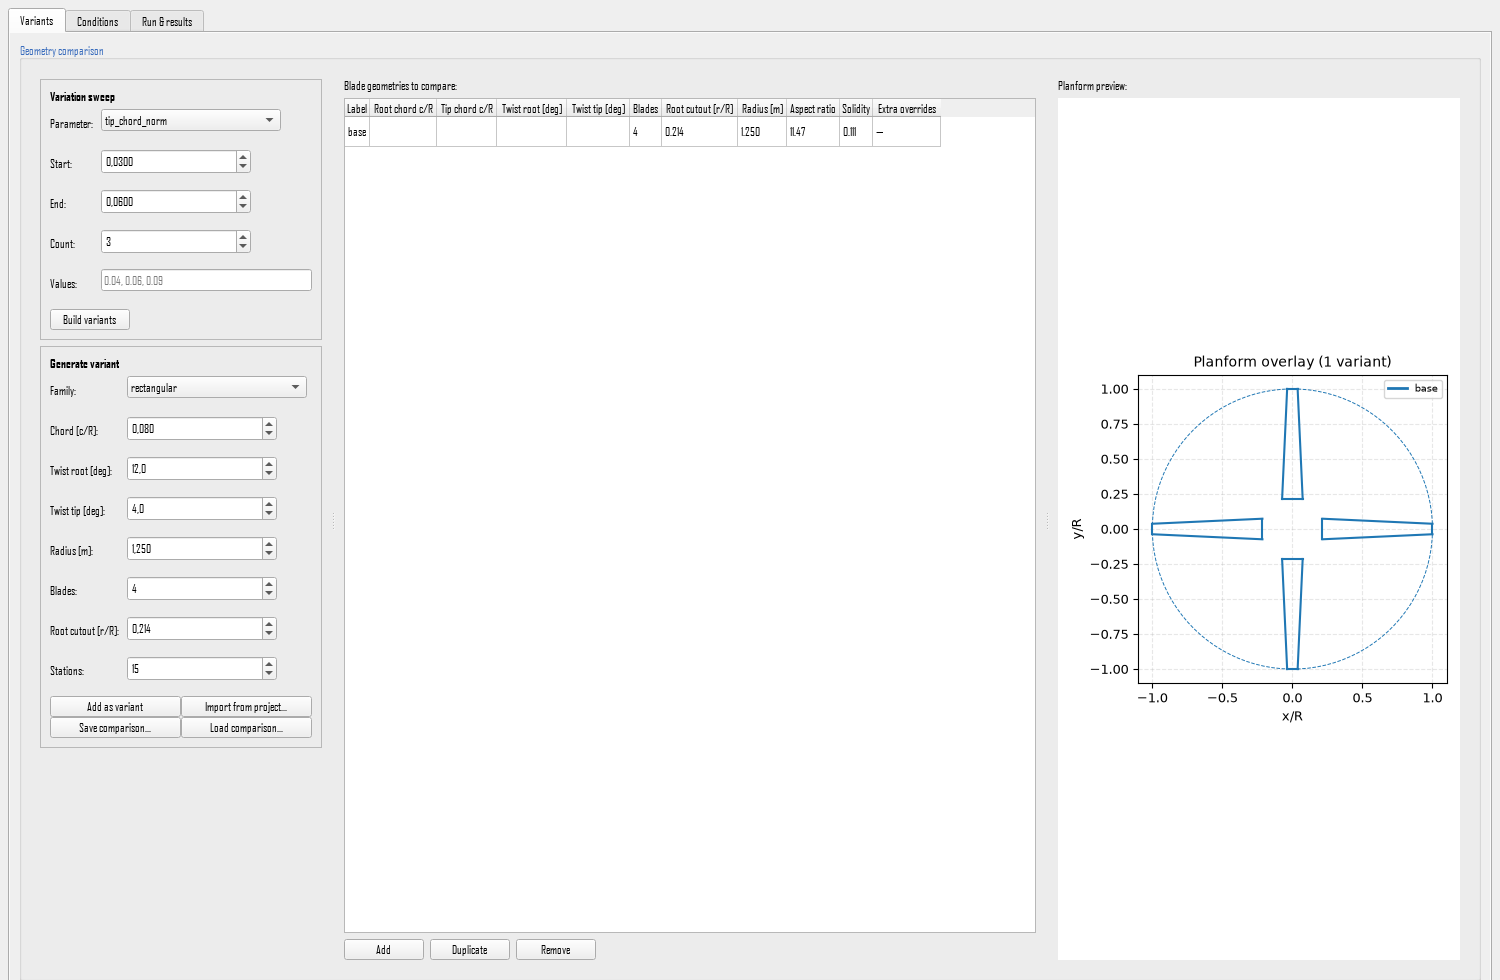
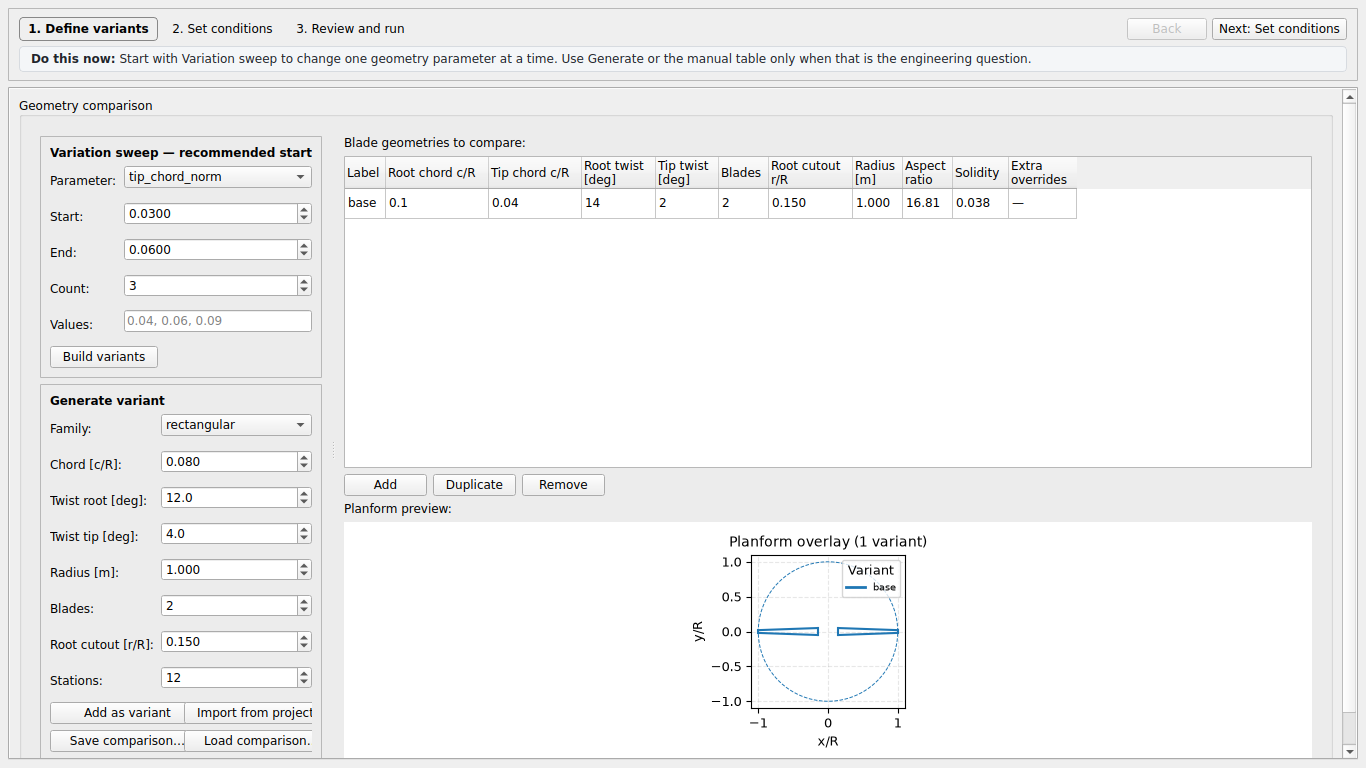
[tools-ux-refactor] Synchronize guided Tools documentation

diff --git a/docs/documentation.html b/docs/documentation.html
@@ -8531,7 +8531,14 @@ r:c:t,r:c:t,...</code> gives the stations directly, each point being the radial 
                           produces.</p>
 
                         <hr>
-                        <h2 id="cap-designer">13. Geometry Variation Studies</h2>
+                        <!-- TOOLS-LAUNCHER -->
+<div class="boxed" id="engineering-tools-launcher"><b>Engineering Tools launcher.</b> Open <i>Tools</i> and start from the engineering question. Each card states what is required and what the Tool produces.<ul><li data-tool="geometry_designer"><b>Compare blade geometries</b> — Change one geometry parameter or compare planform concepts at the same operating conditions. <span class="footnote">Start with: a loaded project and blade geometry. Produces: ranked geometry comparisons, deltas and overlays.</span></li><li data-tool="transient_simulation"><b>Simulate a transient maneuver</b> — March inflow, dynamic stall and flapping through a time-varying flight condition. <span class="footnote">Start with: preferably two saved Run Case conditions. Produces: time histories and maneuver reports.</span></li><li data-tool="design_optimization"><b>Optimize a blade design</b> — Search geometry variables against one or two engineering objectives and constraints. <span class="footnote">Start with: at least one saved Run Case condition. Produces: the best design or a Pareto front.</span></li><li data-tool="stability_derivatives"><b>Compute stability derivatives</b> — Linearize rotor forces and moments around a selected operating point. <span class="footnote">Start with: a saved Run Case condition; trim it first when appropriate. Produces: dimensional/non-dimensional derivative matrices and sign checks.</span></li></ul><figure><img src="img/gui/tools-launcher.png" alt="Engineering Tools launcher"><figcaption>The task-oriented launcher for the four engineering Tools.</figcaption></figure></div>
+<!-- /TOOLS-LAUNCHER -->
+
+<h2 id="cap-designer">13. Geometry Variation Studies</h2>
+<!-- TOOL-LABELS:designer -->
+<div class="boxed tool-workflow-reference"><b>Guided workflow in the current GUI.</b> Use the numbered strip from left to right; the old tab bar is intentionally hidden.<ol><li><b>Define variants</b>: Start with Variation sweep to change one geometry parameter at a time. Use Generate or the manual table only when that is the engineering question.</li><li><b>Set conditions</b>: Choose saved cases, define one operating point, or create a condition sweep. Every geometry is evaluated at exactly these conditions.</li><li><b>Review and run</b>: Read the study summary and case count, then run the comparison and inspect ranking, deltas and overlays.</li></ol><b>Configurable labels in this Tool.</b> This table is generated from the actual GUI controls. Every configurable label links to its full explanation in this manual.<div class="tablewrap"><table><thead><tr><th>GUI label</th><th>Field</th><th>Full documentation</th></tr></thead><tbody><tr data-field="sweep_axis"><td><i>Axis:</i></td><td><code>sweep_axis</code></td><td><a href="#designer-conditions">Swept flight quantity</a></td></tr><tr data-field="sweep_start"><td><i>Start:</i></td><td><code>sweep_start</code></td><td><a href="#designer-conditions">First swept value</a></td></tr><tr data-field="sweep_stop"><td><i>Stop:</i></td><td><code>sweep_stop</code></td><td><a href="#designer-conditions">Last swept value</a></td></tr><tr data-field="sweep_count"><td><i>Count:</i></td><td><code>sweep_count</code></td><td><a href="#designer-conditions">Number of swept conditions</a></td></tr><tr data-field="mu_x"><td><i>μₓ [-]:</i></td><td><code>mu_x</code></td><td><a href="#cap-5-1">In-plane component (V&lt;sub&gt;x&lt;/sub&gt; advance in rotor mode, V&lt;sub&gt;z&lt;/sub&gt; cross-flow in propeller mode)</a></td></tr><tr data-field="collective_deg"><td><i>θ₀ [deg]:</i></td><td><code>collective_deg</code></td><td><a href="#cap-5-3">Collective Pitch</a></td></tr><tr data-field="Vz"><td><i>Vz [m/s]:</i></td><td><code>Vz</code></td><td><a href="#cap-5-2">Along-shaft component (V&lt;sub&gt;z&lt;/sub&gt; climb/descent in rotor mode, V&lt;sub&gt;x&lt;/sub&gt; airspeed in propeller mode)</a></td></tr><tr data-field="rpm"><td><i>RPM:</i></td><td><code>rpm</code></td><td><a href="#cap-5-4">Rotor Speed</a></td></tr><tr data-field="vsweep_param"><td><i>Parameter:</i></td><td><code>vsweep_param</code></td><td><a href="#designer-variants">Swept geometry parameter</a></td></tr><tr data-field="vsweep_start"><td><i>Start:</i></td><td><code>vsweep_start</code></td><td><a href="#designer-variants">First generated value</a></td></tr><tr data-field="vsweep_end"><td><i>End:</i></td><td><code>vsweep_end</code></td><td><a href="#designer-variants">Last generated value</a></td></tr><tr data-field="vsweep_count"><td><i>Count:</i></td><td><code>vsweep_count</code></td><td><a href="#designer-variants">Number of generated variants</a></td></tr><tr data-field="vsweep_values"><td><i>Values:</i></td><td><code>vsweep_values</code></td><td><a href="#designer-variants">Explicit values</a></td></tr><tr data-field="gen_family"><td><i>Family:</i></td><td><code>gen_family</code></td><td><a href="#designer-variants">Planform family</a></td></tr><tr data-field="chord_norm"><td><i>Chord [c/R]:</i></td><td><code>chord_norm</code></td><td><a href="#cap-2-3">Normalized Chord</a></td></tr><tr data-field="root_chord_norm"><td><i>Root chord [c/R]:</i></td><td><code>root_chord_norm</code></td><td><a href="#designer-variants">Root chord</a></td></tr><tr data-field="tip_chord_norm"><td><i>Tip chord [c/R]:</i></td><td><code>tip_chord_norm</code></td><td><a href="#cap-2-2-0">Tip Chord (Tapered)</a></td></tr><tr data-field="max_chord_norm"><td><i>Max chord [c/R]:</i></td><td><code>max_chord_norm</code></td><td><a href="#designer-variants">Maximum chord</a></td></tr><tr data-field="twist_root_deg"><td><i>Twist root [deg]:</i></td><td><code>twist_root_deg</code></td><td><a href="#cap-2-2-0">Root Twist</a></td></tr><tr data-field="twist_tip_deg"><td><i>Twist tip [deg]:</i></td><td><code>twist_tip_deg</code></td><td><a href="#cap-2-2-0">Tip Twist</a></td></tr><tr data-field="radius_m"><td><i>Radius [m]:</i></td><td><code>radius_m</code></td><td><a href="#cap-2-1">Rotor Radius</a></td></tr><tr data-field="n_blades"><td><i>Blades:</i></td><td><code>n_blades</code></td><td><a href="#cap-2-1">Number of Blades</a></td></tr><tr data-field="root_cutout_norm"><td><i>Root cutout [r/R]:</i></td><td><code>root_cutout_norm</code></td><td><a href="#cap-2-5">Root Cutout</a></td></tr><tr data-field="n_stations"><td><i>Stations:</i></td><td><code>n_stations</code></td><td><a href="#cap-2-2-0">Number of Stations</a></td></tr></tbody></table></div><b>Action labels.</b><ul class="tool-action-labels"><li>Run comparison</li><li>Cancel</li><li>Compare with derivatives</li><li>Export report</li><li>Export CSV</li><li>Add</li><li>Duplicate</li><li>Remove</li><li>Build variants</li><li>Add as variant</li><li>Import from project…</li><li>Save comparison…</li><li>Load comparison…</li></ul><b>Table column labels.</b><ul class="tool-table-labels"><li>Variant</li><li>dMₓ/dq [N·m/(rad/s)]</li><li>dThrust/dw [N/(m/s)]</li><li>Label</li><li>Root chord c/R</li><li>Tip chord c/R</li><li>Root twist [deg]</li><li>Tip twist [deg]</li><li>Blades</li><li>Root cutout r/R</li><li>Radius [m]</li><li>Aspect ratio</li><li>Solidity</li><li>Extra overrides</li></ul></div>
+<!-- /TOOL-LABELS:designer -->
 
                         <p>The Geometry Designer is a separate window that compares blade
                           planforms. The window runs the same solver as an ordinary case, so its numbers
@@ -9125,6 +9132,9 @@ r:c:t,r:c:t,...</code> gives the stations directly, each point being the radial 
 
 
 <h2 id="cap-optimization">14. Design Optimization</h2>
+<!-- TOOL-LABELS:optimizer -->
+<div class="boxed tool-workflow-reference"><b>Guided workflow in the current GUI.</b> Use the numbered strip from left to right; the old tab bar is intentionally hidden.<ol><li><b>Define engineering problem</b>: Choose objective(s), design variables, constraints and the operating condition. Leave numerical search tuning at its defaults unless you need it.</li><li><b>Review and run</b>: Confirm the evaluation cost, run the search and inspect the optimum or Pareto trade-off before applying a design.</li></ol><b>Configurable labels in this Tool.</b> This table is generated from the actual GUI controls. Every configurable label links to its full explanation in this manual.<div class="tablewrap"><table><thead><tr><th>GUI label</th><th>Field</th><th>Full documentation</th></tr></thead><tbody><tr data-field="optimization"><td><i>optimization</i></td><td><code>optimization</code></td><td><a href="#cap-optimization">Optimization study</a></td></tr></tbody></table></div><b>Action labels.</b><ul class="tool-action-labels"><li>Run optimization</li><li>Cancel</li><li>Export CSV</li><li>Export report</li><li>Send front to comparison</li><li>Apply selected to project</li><li>New</li><li>Duplicate</li><li>Rename</li><li>Delete</li><li>Add constraint</li><li>Remove selected</li><li>Add variable</li></ul><b>Table column labels.</b><ul class="tool-table-labels"><li>Result quantity</li><li>Operator</li><li>Value</li><li>Geometry parameter</li><li>Lower</li><li>Upper</li></ul></div>
+<!-- /TOOL-LABELS:optimizer -->
                         <p>The Design Optimization window searches for the blade geometry that best
                           satisfies two goals at once. One goal alone is a single-objective study: the
                           software has always been able to maximize the figure of merit or minimize the
@@ -9454,6 +9464,9 @@ r:c:t,r:c:t,...</code> gives the stations directly, each point being the radial 
 
 
                         <h2 id="cap-transiente">15. Transient Simulation</h2>
+<!-- TOOL-LABELS:transient -->
+<div class="boxed tool-workflow-reference"><b>Guided workflow in the current GUI.</b> Use the numbered strip from left to right; the old tab bar is intentionally hidden.<ol><li><b>Define maneuver</b>: Quick start: build a ramp from two saved Run Case conditions. Use the point table only for a custom time history.</li><li><b>Review and run</b>: Check the sampled trajectory and cost, then run the unsteady march and inspect the time histories.</li></ol><b>Configurable labels in this Tool.</b> This table is generated from the actual GUI controls. Every configurable label links to its full explanation in this manual.<div class="tablewrap"><table><thead><tr><th>GUI label</th><th>Field</th><th>Full documentation</th></tr></thead><tbody><tr data-field="maneuver"><td><i>maneuver</i></td><td><code>maneuver</code></td><td><a href="#cap-transiente">Maneuver</a></td></tr><tr data-field="build_case_a"><td><i>From case:</i></td><td><code>build_case_a</code></td><td><a href="#cap-transiente-2">Start condition of the ramp</a></td></tr><tr data-field="build_case_b"><td><i>To case:</i></td><td><code>build_case_b</code></td><td><a href="#cap-transiente-2">End condition of the ramp</a></td></tr><tr data-field="build_duration"><td><i>Duration [s]:</i></td><td><code>build_duration</code></td><td><a href="#cap-transiente-2">Ramp duration</a></td></tr><tr data-field="interpolation"><td><i>Interpolation:</i></td><td><code>interpolation</code></td><td><a href="#cap-transiente-2">Interpolation between points</a></td></tr><tr data-field="dt_s"><td><i>Sample interval [s]:</i></td><td><code>dt_s</code></td><td><a href="#cap-transiente-3">Output sample interval</a></td></tr><tr data-field="substeps_per_step"><td><i>Sub-steps per sample:</i></td><td><code>substeps_per_step</code></td><td><a href="#cap-transiente-3">Inflow sub-steps per sample</a></td></tr><tr data-field="initial_state"><td><i>Initial state:</i></td><td><code>initial_state</code></td><td><a href="#cap-transiente-4">Where the march starts</a></td></tr><tr data-field="march_dynamic_stall"><td><i>March dynamic stall</i></td><td><code>march_dynamic_stall</code></td><td><a href="#cap-transiente-5">March dynamic stall</a></td></tr><tr data-field="march_flapping"><td><i>March flapping (quasi-steady)</i></td><td><code>march_flapping</code></td><td><a href="#cap-transiente-5">March flapping</a></td></tr></tbody></table></div><b>Action labels.</b><ul class="tool-action-labels"><li>Run maneuver</li><li>Cancel</li><li>Export CSV</li><li>Export report</li><li>New</li><li>Duplicate</li><li>Rename</li><li>Delete</li><li>Build ramp</li><li>Add point</li><li>Remove selected</li></ul><b>Table column labels.</b><ul class="tool-table-labels"><li>t [s]</li><li>μₓ</li><li>Vz [m/s]</li><li>θ₀ [deg]</li><li>θ1c [deg]</li><li>θ₁ₛ [deg]</li><li>RPM [rev/min]</li></ul></div>
+<!-- /TOOL-LABELS:transient -->
 
                         <p>Every other chapter of this manual computes a rotor in EQUILIBRIUM. The solver is
                           given a flight condition. It solves the inflow until it stops changing, and it reads the loads off the
@@ -9673,6 +9686,9 @@ r:c:t,r:c:t,...</code> gives the stations directly, each point being the radial 
                           sample interval too coarse to have followed it.</p>
 
 <h2 id="cap-stability">16. Stability Derivatives</h2>
+<!-- TOOL-LABELS:stability -->
+<div class="boxed tool-workflow-reference"><b>Guided workflow in the current GUI.</b> Use the numbered strip from left to right; the old tab bar is intentionally hidden.<ol><li><b>Set operating point</b>: Select the saved case and trim strategy. Run trim only first when the reference controls should be solved rather than prescribed.</li><li><b>Choose derivatives</b>: Start from a longitudinal, lateral-directional or control preset, then adjust variables, outputs and finite-difference steps only if needed.</li><li><b>Review and run</b>: Check the evaluation cost, run the derivative sweep and inspect matrix units, signs and convergence diagnostics.</li></ol><b>Configurable labels in this Tool.</b> This table is generated from the actual GUI controls. Every configurable label links to its full explanation in this manual.<div class="tablewrap"><table><thead><tr><th>GUI label</th><th>Field</th><th>Full documentation</th></tr></thead><tbody><tr data-field="vehicle_mass_kg"><td><i>Mass [kg]:</i></td><td><code>vehicle_mass_kg</code></td><td><a href="#cap-stability-vehicle">Vehicle mass</a></td></tr><tr data-field="vehicle_Ix_kg_m2"><td><i>Ix [kg·m²]:</i></td><td><code>vehicle_Ix_kg_m2</code></td><td><a href="#cap-stability-vehicle">Roll inertia</a></td></tr><tr data-field="vehicle_Iy_kg_m2"><td><i>Iy [kg·m²]:</i></td><td><code>vehicle_Iy_kg_m2</code></td><td><a href="#cap-stability-vehicle">Pitch inertia</a></td></tr><tr data-field="vehicle_Iz_kg_m2"><td><i>Iz [kg·m²]:</i></td><td><code>vehicle_Iz_kg_m2</code></td><td><a href="#cap-stability-vehicle">Yaw inertia</a></td></tr><tr data-field="hub_offset_x_m"><td><i>Hub ahead of the CG [m]:</i></td><td><code>hub_offset_x_m</code></td><td><a href="#cap-stability-vehicle">Hub ahead of the CG</a></td></tr><tr data-field="hub_offset_z_m"><td><i>Hub above the CG [m]:</i></td><td><code>hub_offset_z_m</code></td><td><a href="#cap-stability-vehicle">Hub above the CG</a></td></tr><tr data-field="gravity_m_s2"><td><i>g [m/s²]:</i></td><td><code>gravity_m_s2</code></td><td><a href="#cap-stability-vehicle">Gravitational acceleration</a></td></tr><tr data-field="analysis_preset"><td><i>Analysis:</i></td><td><code>analysis_preset</code></td><td><a href="#cap-stability">Derivative analysis preset</a></td></tr><tr data-field="richardson_check"><td><i>Richardson half-step check</i></td><td><code>richardson_check</code></td><td><a href="#cap-stability-steps">Richardson half-step check</a></td></tr><tr data-field="derivatives"><td><i>derivatives</i></td><td><code>derivatives</code></td><td><a href="#cap-stability">Derivative study</a></td></tr><tr data-field="condition"><td><i>Saved case:</i></td><td><code>condition</code></td><td><a href="#cap-opt-condition">Flight condition of the study</a></td></tr><tr data-field="trim"><td><i>Mode:</i></td><td><code>trim</code></td><td><a href="#cap-stability-trim">Trim</a></td></tr><tr data-field="trim_target_thrust"><td><i>Thrust target [N]:</i></td><td><code>trim_target_thrust</code></td><td><a href="#cap-stability-trim">Thrust target of the trim</a></td></tr><tr data-field="vehicle_enabled"><td><i>Build the rigid-body A/B matrices</i></td><td><code>vehicle_enabled</code></td><td><a href="#cap-stability-vehicle">Build the rigid-body A/B matrices</a></td></tr><tr data-field="u"><td><i>u — longitudinal speed [m/s]</i></td><td><code>u</code></td><td><a href="#cap-stability-steps">u — longitudinal speed</a></td></tr><tr data-field="v"><td><i>v — lateral speed [m/s]</i></td><td><code>v</code></td><td><a href="#cap-stability-steps">v — lateral speed</a></td></tr><tr data-field="w"><td><i>w — axial speed [m/s]</i></td><td><code>w</code></td><td><a href="#cap-stability-steps">w — axial speed</a></td></tr><tr data-field="p"><td><i>p — roll rate [rad/s]</i></td><td><code>p</code></td><td><a href="#cap-stability-steps">p — roll rate</a></td></tr><tr data-field="q"><td><i>q — pitch rate [rad/s]</i></td><td><code>q</code></td><td><a href="#cap-stability-steps">q — pitch rate</a></td></tr><tr data-field="Omega"><td><i>Ω — rotor speed [rpm]</i></td><td><code>Omega</code></td><td><a href="#cap-stability-steps">Ω — rotor speed</a></td></tr><tr data-field="theta_0"><td><i>θ₀ — collective [deg]</i></td><td><code>theta_0</code></td><td><a href="#cap-stability-steps">θ₀ — collective</a></td></tr><tr data-field="theta_1c"><td><i>θ₁c — cyclic cosine [deg]</i></td><td><code>theta_1c</code></td><td><a href="#cap-stability-steps">θ₁c — cosine cyclic</a></td></tr><tr data-field="theta_1s"><td><i>θ₁s — cyclic sine [deg]</i></td><td><code>theta_1s</code></td><td><a href="#cap-stability-steps">θ₁s — sine cyclic</a></td></tr><tr data-field="Thrust"><td><i>Thrust</i></td><td><code>Thrust</code></td><td><a href="#cap-stability-run">Thrust</a></td></tr><tr data-field="H"><td><i>H</i></td><td><code>H</code></td><td><a href="#cap-stability-run">H — in-plane drag force</a></td></tr><tr data-field="Y"><td><i>Y</i></td><td><code>Y</code></td><td><a href="#cap-stability-run">Y — in-plane side force</a></td></tr><tr data-field="Mx_total"><td><i>Mx,total [N·m]</i></td><td><code>Mx_total</code></td><td><a href="#cap-stability-hub">Mx,total — hub moment about the ψ=0 axis</a></td></tr><tr data-field="My_total"><td><i>My,total [N·m]</i></td><td><code>My_total</code></td><td><a href="#cap-stability-hub">My,total — hub moment about the ψ=90° axis</a></td></tr><tr data-field="Torque"><td><i>Torque</i></td><td><code>Torque</code></td><td><a href="#cap-stability-run">Torque</a></td></tr></tbody></table></div><b>Action labels.</b><ul class="tool-action-labels"><li>Run derivatives</li><li>Cancel</li><li>Export CSV</li><li>Export report</li><li>New</li><li>Duplicate</li><li>Rename</li><li>Delete</li><li>Run trim only</li></ul><b>Table column labels.</b><ul class="tool-table-labels"><li>Variable</li><li>Step</li></ul></div>
+<!-- /TOOL-LABELS:stability -->
 
                         <p>A stability derivative answers one question: if the rotor flies a little
                           faster, rolls a little quicker, or its collective moves a little, how much does
